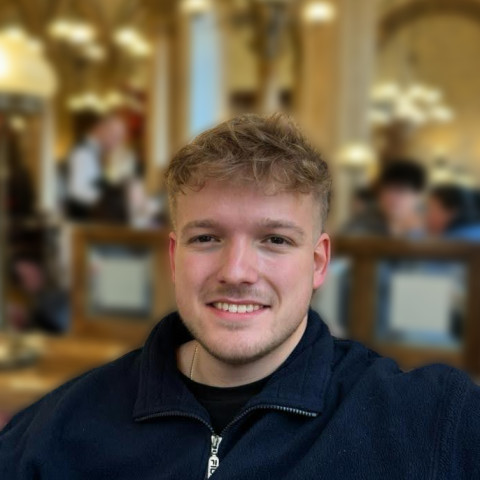
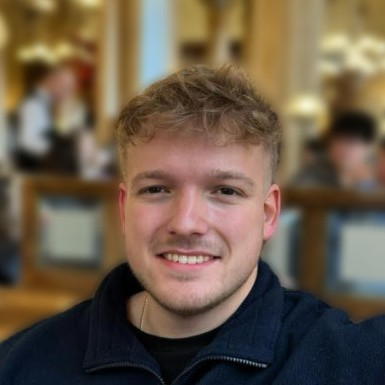
style: update profile image dimensions for better visibility; refine course description for clarity

diff --git a/index.html b/index.html
@@ -252,7 +252,7 @@
               <h4 class="card-heading"><i class="bi bi-code-square"></i> IT Career Switch Coding Course</h4>
               <h5>2023 - Present</h5>
               <a href="https://itcareerswitch.co.uk/" target="_blank" class="d-block mb-3"><em><i class="bi bi-link-45deg"></i> https://itcareerswitch.co.uk/</em></a>
-              <p>Intensive program covering coding fundamentals, hands-on projects, and collaborative development, with an exam and senior-reviewed projects leading to a professional portfolio.</p>
+              <p>Intensive course covering coding fundamentals, hands-on projects, and collaborative development, with an exam and senior-reviewed projects leading to a professional portfolio.</p>
               <ul>
                 <li>Built and deployed <strong>full-stack applications</strong> using industry best practices</li>
                 <li>Passed a <strong>rigorous technical exam</strong>, demonstrating strong coding proficiency</li>

diff --git a/assets/css/main.css b/assets/css/main.css
@@ -886,8 +886,8 @@ body.mobile-nav-active .navmenu {
 /* 6.4 About */
 .about .profile-img-container {
   position: relative;
-  width: 200px;
-  height: 200px;
+  width: 250px;
+  height: 250px;
   margin: 0 auto;
 }
 
@@ -900,8 +900,8 @@ body.mobile-nav-active .navmenu {
 }
 
 .about .profile-img-container .profile-accent {
-  width: 220px;
-  height: 220px;
+  width: 270px;
+  height: 270px;
   background: var(--color-accent-light);
   z-index: -1;
   border: 5px solid var(--color-accent);
